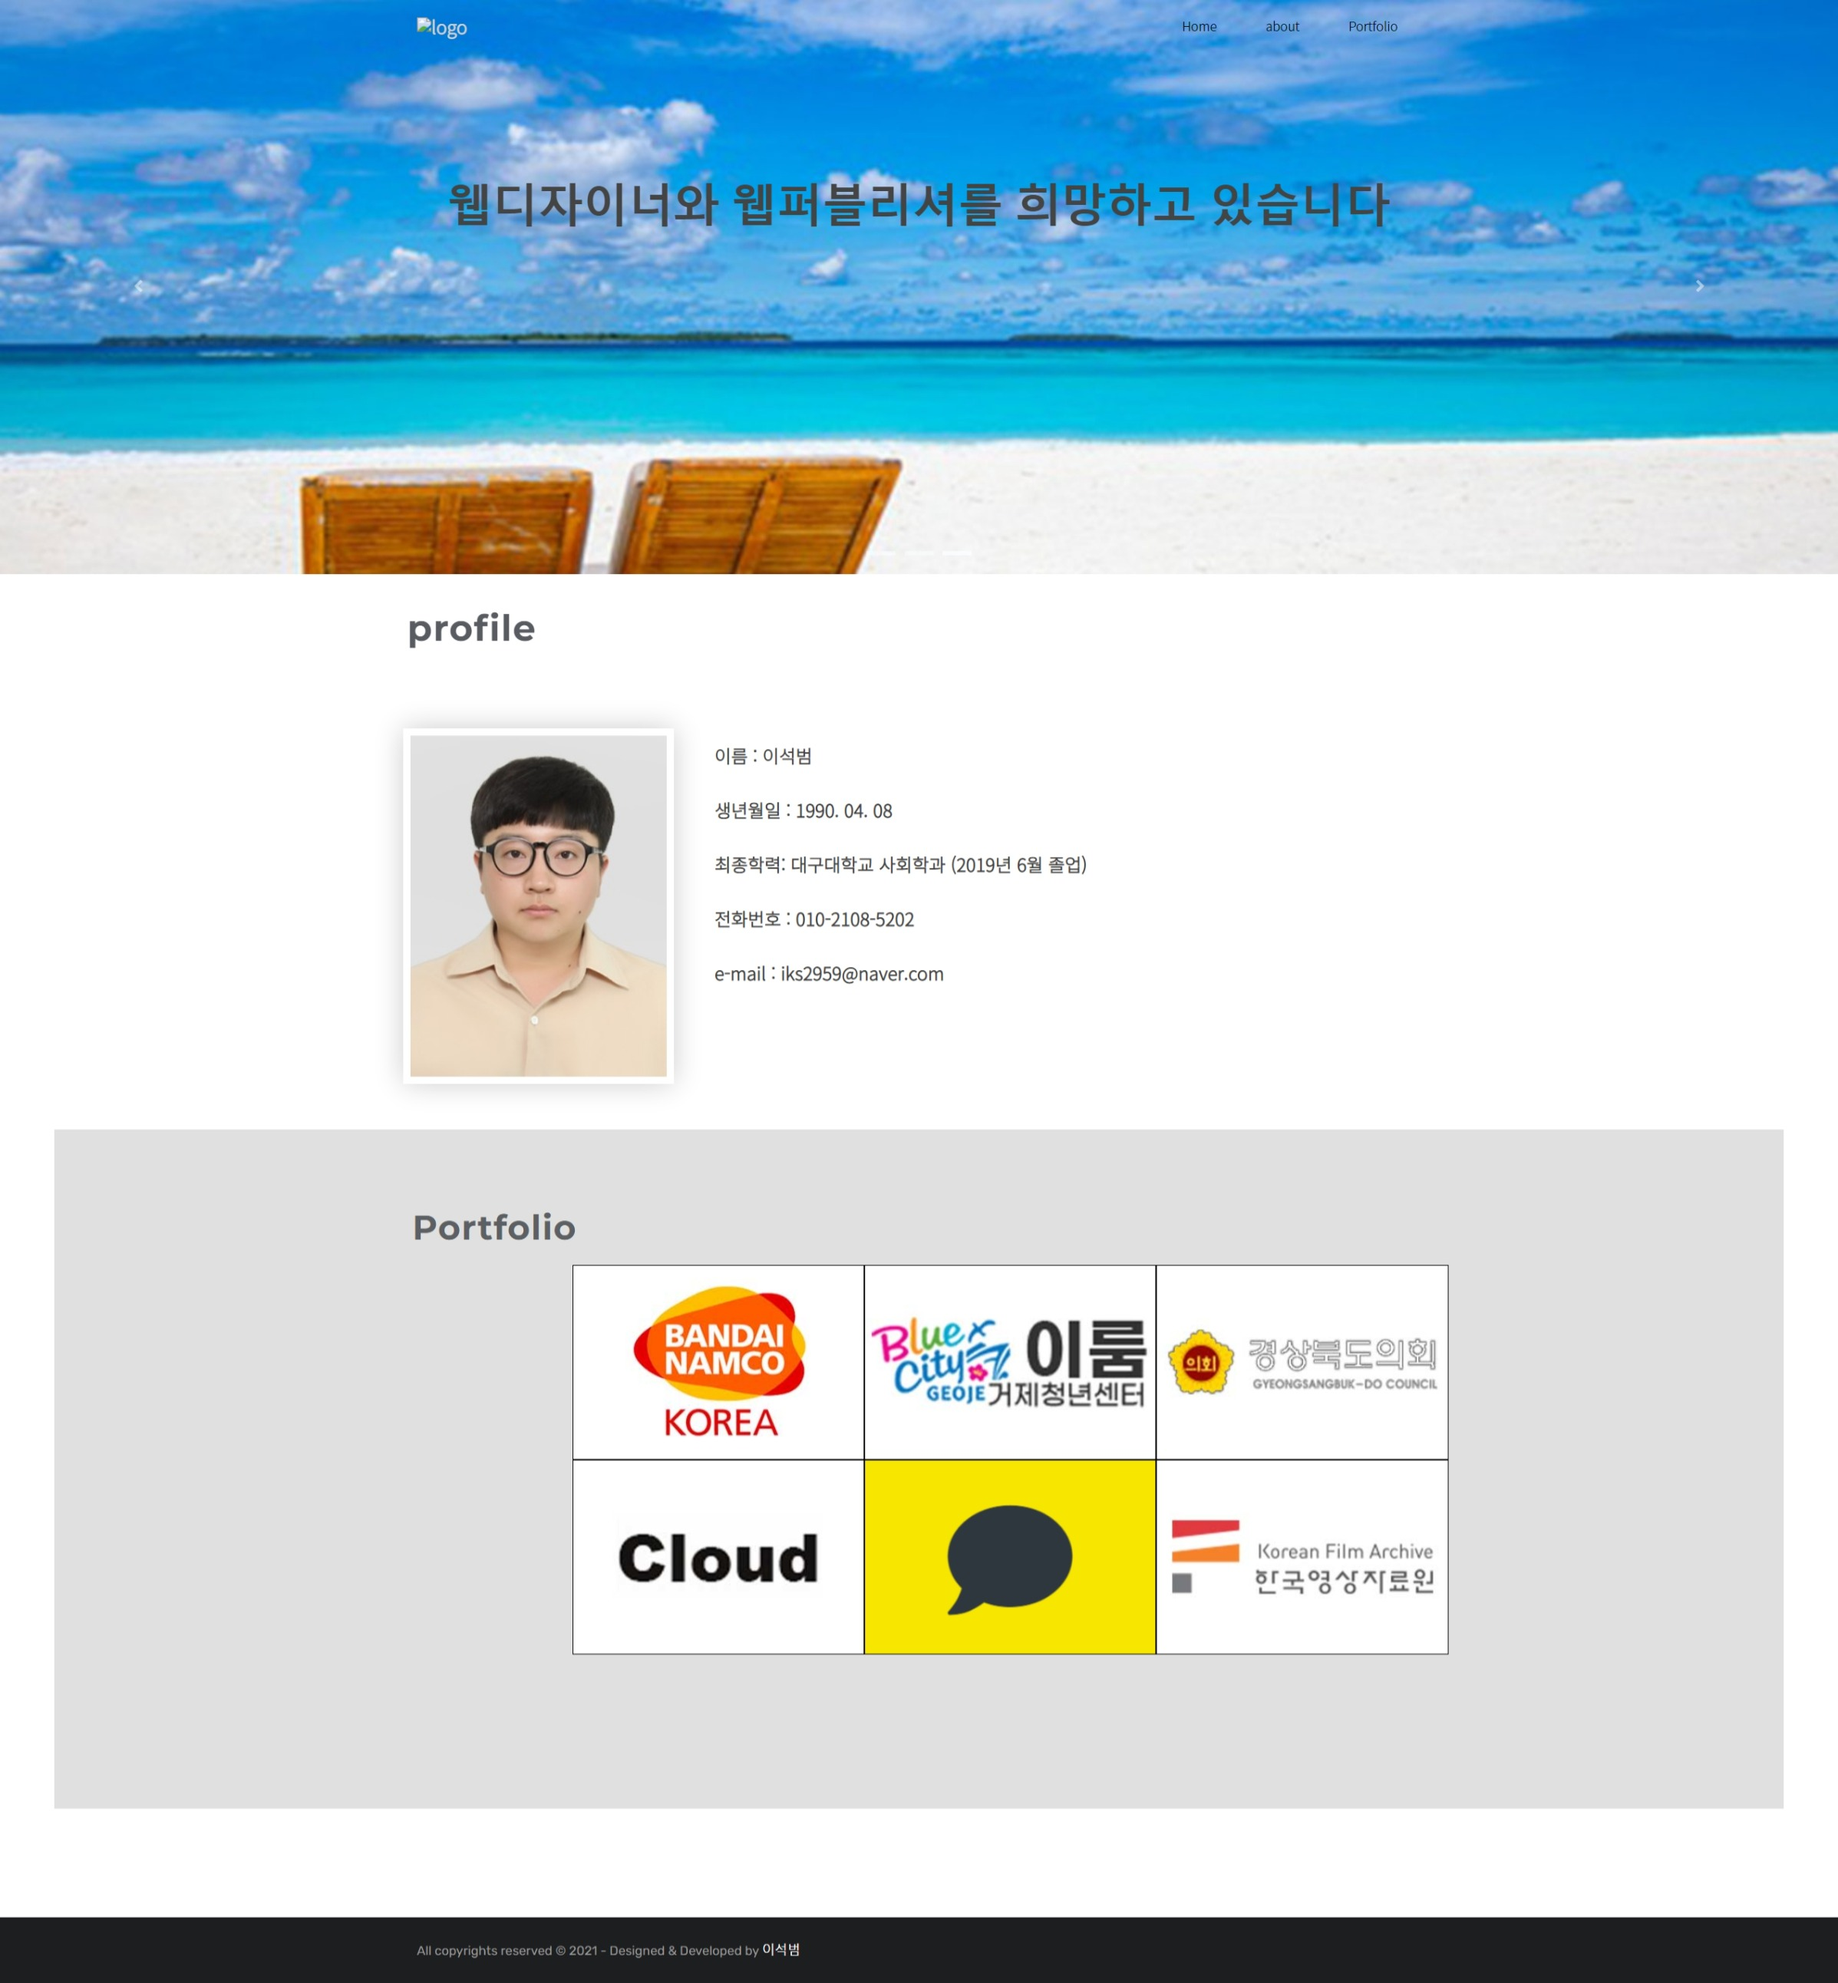
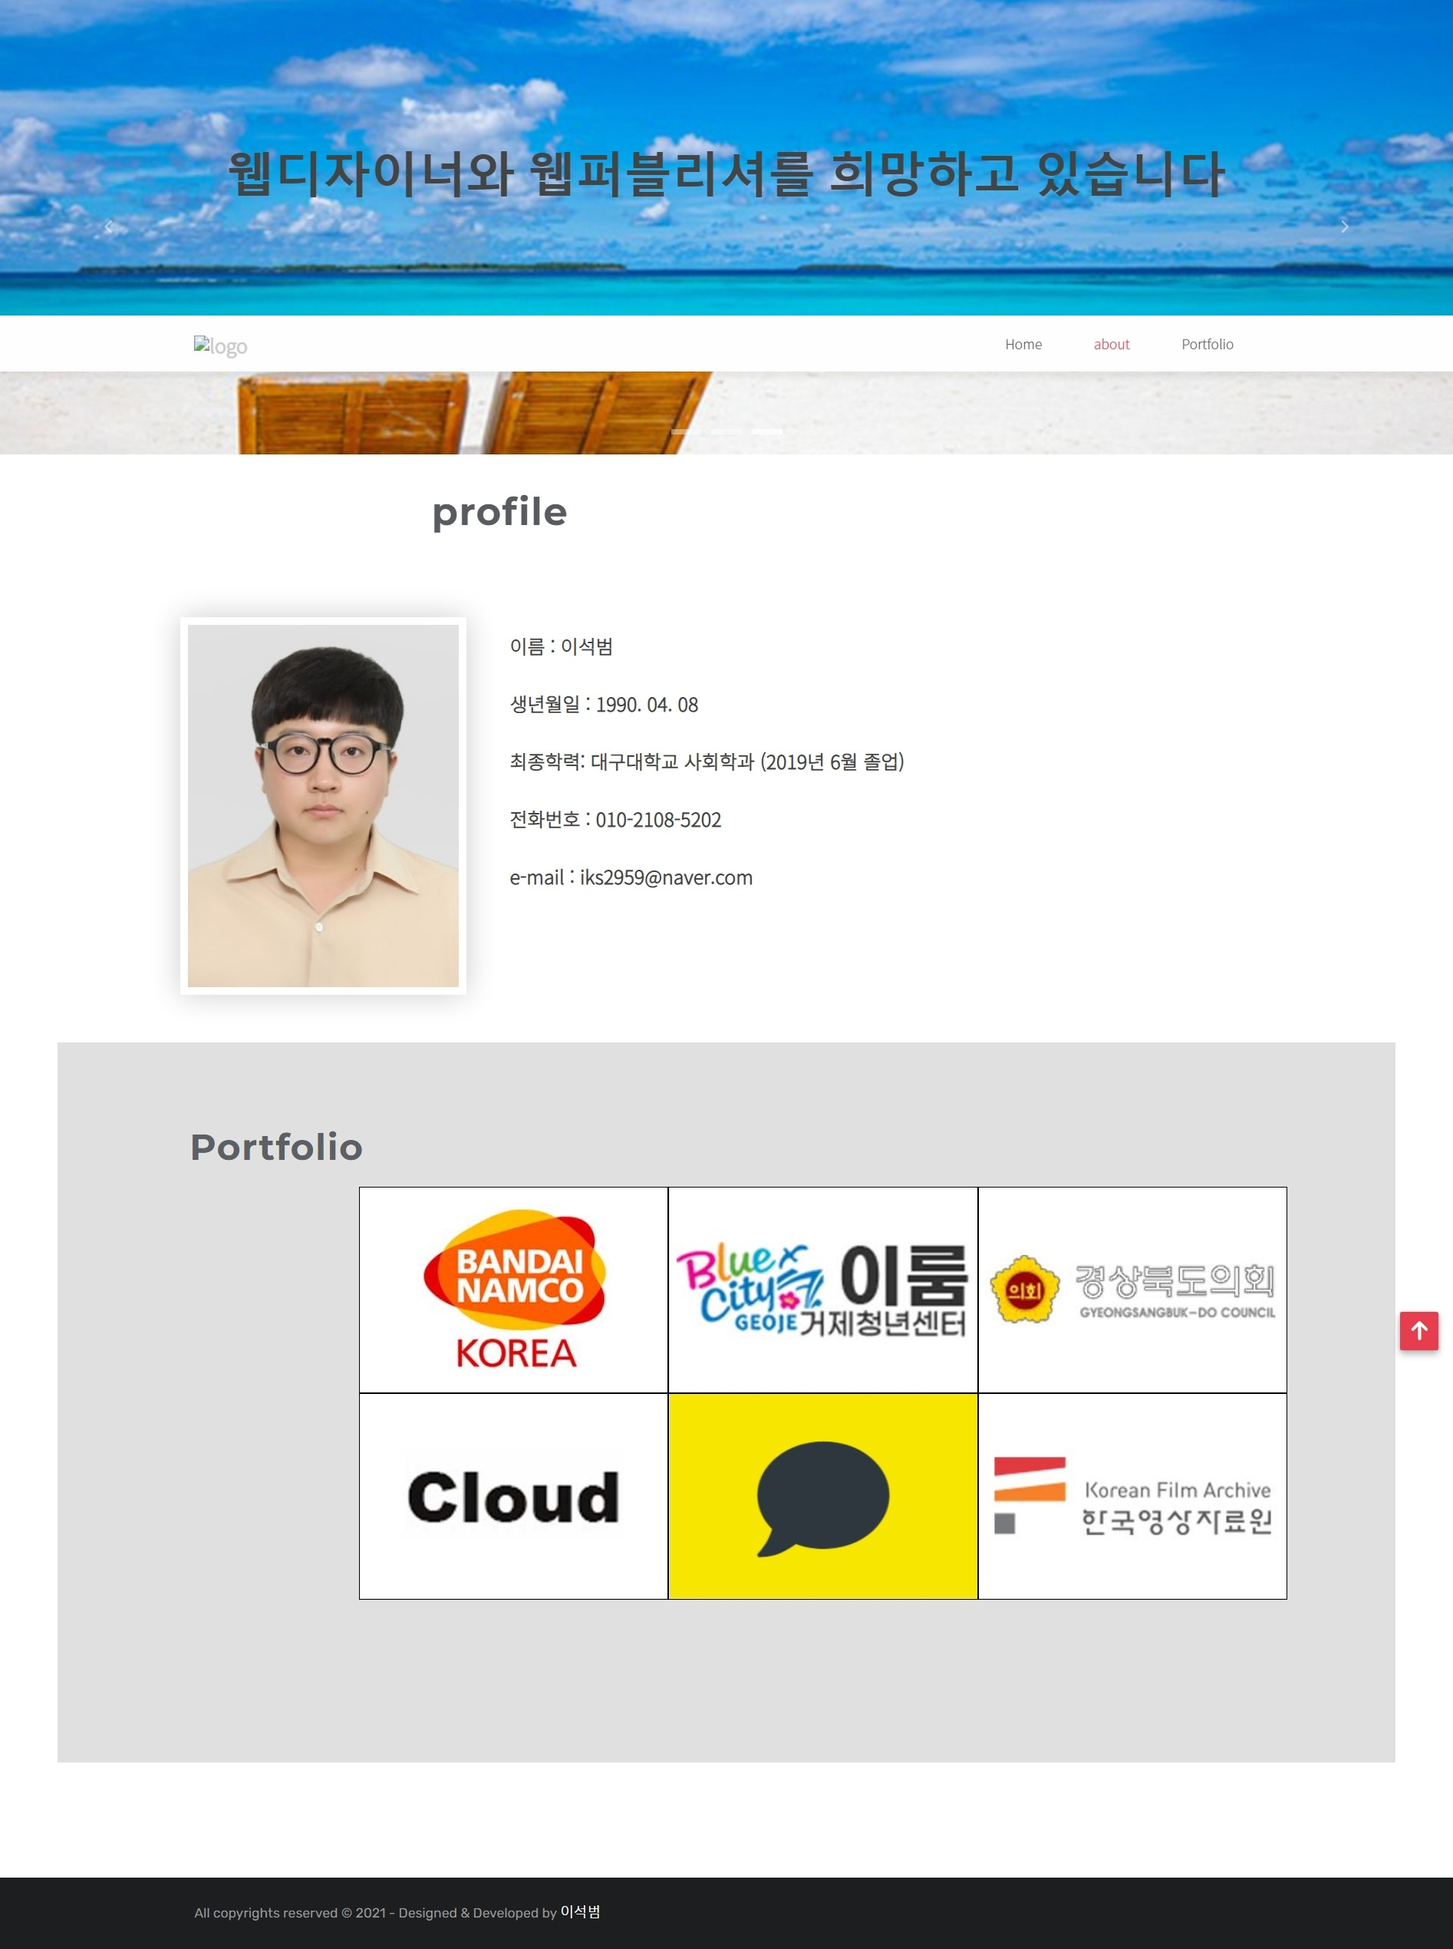
section update

diff --git a/main.css b/main.css
@@ -1,7 +1,8 @@
 body{
-    margin:0;
+    margin:0; 
     font-family: 'Source Sans Pro', sans-serif;
 }
+
 
 a {
     text-decoration: none;
@@ -9,7 +10,6 @@ a {
 }
 header{
     width:100%;
-    height:100px;
     background-color:rgb(172, 161, 163);
 }
 
@@ -18,6 +18,7 @@ header{
     justify-content: space-between;
     align-items: center;
     padding:18px 12px;
+    height:100px;
 }
 
 .navbar .nav_logo img{
@@ -54,8 +55,9 @@ a:hover{
 .slide-container {
     width: 300vw;
     transition: all 1s;
+    margin:0; padding:0;
   }
-  
+
   .slide-box {
     width: 100vw;
     float: left;
@@ -103,16 +105,64 @@ a:hover{
       color: green;
   }
   
-  .header-inner {margin-bottom: -200px !important;}
-@media screen and (max-width:768px) {
+  section{
+      display: flex;
+      flex-direction: column;
+      position:relative;
+      width:100%;
+      height:800px;
+      border:1px solid red;
+  }
+  
+   
+  .profile{
+    color: #585b60;
+    font-family: "Montserrat", sans-serif;
+    font-size: 40px;
+    font-weight: 700;
+    letter-spacing: 1px;
+    line-height: 1;
+    margin-top: 40px;
+    margin-left: 440px;
+    padding: 0 10px;
+    position: relative;
+    width:100%;
+    height:120px;
+  }
+
+  .profile02{
+      display: flex;
+      flex-direction: row;
+      margin-left:440px;
+  }
+
+  .profile02 img{
+    border: 8px solid #fff;
+    box-shadow: 0px 0px 30px rgb(0 0 0 / 20%);
+  }
+
+  .pro ul li{
+    color: #444;
+    font-size: 20px;
+    font-weight: 600;
+    margin-left: 20px;
+    line-height: 20px;
+    letter-spacing: 0px;
+    padding: 20px 0;
+  }
+  @media screen and (max-width:768px) {
+    html,body{
+        width:100%;
+        height:100%;
+        margin:0; padding:0;
+        font-family: 'Source Sans Pro', sans-serif;
+    }
+    
     .navbar{
         flex-direction: row;
         position:relative;
     }
 
-    header{
-        height:80px;
-    }
     
     .nav_menu{
         visibility: hidden;
@@ -157,7 +207,11 @@ a:hover{
         padding:5px 05px;
         margin-top:05px;
       }
-      
+      .slide-container {
+        width: 300vw;
+        transition: all 1s;
+        margin:0; padding:0;
+      }
       .slide-box img {
         width: 150%;
     }
@@ -194,4 +248,52 @@ a:hover{
     z-index: 1;
     font-size:15px
     }
+
+    section{
+        display: flex;
+        flex-direction: column;
+        position:relative;
+        width:100%;
+        height:1000px;
+        border:1px solid red;
+    }
+
+    .profile{
+        color: #585b60;
+        font-family: "Montserrat", sans-serif;
+        font-size: 40px;
+        font-weight: 700;
+        letter-spacing: 1px;
+        line-height: 1;
+        margin-top: 40px;
+        margin-left: 70px;
+        padding: 0 10px;
+        position: relative;
+        width:100%;
+        height:120px;
+      }
+    
+      .profile02{
+          display: flex;
+          flex-direction: column;
+          margin-left:70px;
+      }
+    
+      .profile02 img{
+        margin-top: 0px;  
+        border: 8px solid #fff;
+        box-shadow: 0px 0px 30px rgb(0 0 0 / 20%);
+        width:65%;
+      }
+    
+      .pro ul li{
+        color: #444;
+        font-size: 20px;
+        font-weight: 600;
+        margin-top:20px;
+        margin-left: -10px;
+        line-height: 20px;
+        letter-spacing: 0px;
+        padding: 10px 0;
+      }
     }

diff --git a/index.html b/index.html
@@ -24,6 +24,7 @@
      <script src="main.js" defer></script>
     </head>
 <body>
+ <div id="wrap">
   <header>
      <nav class="navbar">
          <div class="nav_logo">
@@ -86,16 +87,31 @@
         </div> 
        </div>
       </div>
-    </div> 
-  
-    
- 
-    </header>
+    </div>   
+  </header>
+     
   <section>
-
+    <div class="profile">
+      profile
+    </div>
+    <div class="profile02">
+      <img src="img/profile/이석범.jpg">
+      <div class="pro">
+        <ul>
+          <li>이름 : 이석범 </li>
+          <li>생년월일 : 1990. 04. 08 </li>
+          <li>최종학력: 대구대학교 사회학과 (2019년 6월 졸업) </li>
+          <li>전화번호 : 010-2108-5202 </li>
+          <li>e-mail : iks2959@naver.com</li>
+        </ul>
+      </div>
+    </div> 
+    
   </section>
+ 
   <footer>
 
   </footer>
+  </div>
 </body>
 </html>

diff --git a/main.js b/main.js
@@ -25,3 +25,13 @@ document.querySelector('.navbar_togleBtn').addEventListener('click',function(){
       슬라이드 -= 1
     }
   })
+
+  $('#slide3>ul>li').hide();
+$('#slide3>ul>li:first-child').show();
+
+setInterval(function(){
+    $('#slide3>ul>li:first-child').fadeOut()
+    .next().fadeIn().end(1000)
+    .appendTo('#slide3>ul');
+},3000);
+출처: https://sudal89.tistory.com/47 [가을밤에 내리는 비:티스토리]
